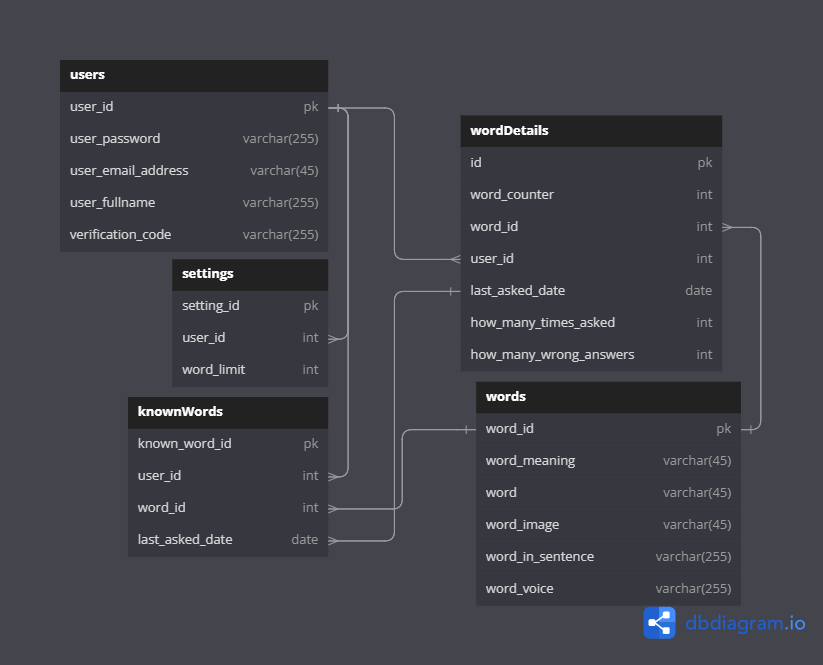
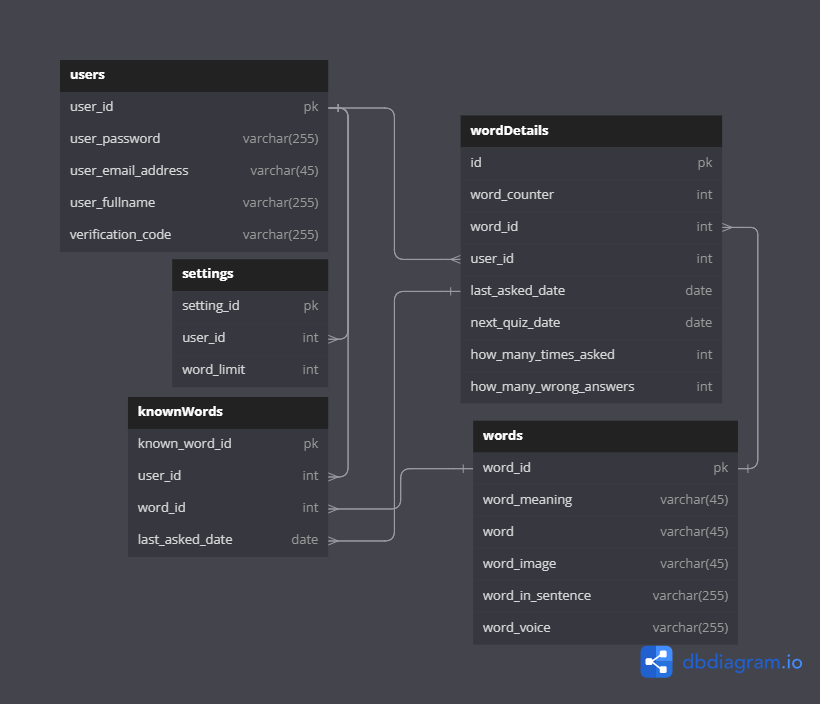
hotFix
analiz kısmı tamamlandı. sorunlar çözüldü. veri tabanı yeniden yapılandırıldı.

diff --git a/api/wordApi.js b/api/wordApi.js
@@ -43,15 +43,15 @@ app.get("/questions/:userId", async (req, res) => {
         const wordLimit =
           settingsResult.length > 0 ? settingsResult[0].word_limit : 10;
 
-        // Rastgele bir kelime seç
+        // Kullanıcının tekrarlanması gereken kelimelerini getir
         const query = `
-        SELECT w.*, wd.word_counter, wd.user_id
-        FROM words AS w
-        INNER JOIN worddetails AS wd ON w.word_id = wd.word_id
-        WHERE wd.user_id = ? AND wd.word_counter < 6
-        ORDER BY RAND()
-        LIMIT ?;
-      `;
+          SELECT w.*, wd.word_counter, wd.user_id, wd.next_quiz_date
+          FROM words AS w
+          INNER JOIN wordDetails AS wd ON w.word_id = wd.word_id
+          WHERE wd.user_id = ? AND wd.word_counter < 6 AND wd.next_quiz_date <= CURDATE()
+          ORDER BY RAND()
+          LIMIT ?;
+        `;
         db.query(query, [userId, wordLimit], (error, results) => {
           if (error) {
             console.error("Error fetching questions:", error);
@@ -90,35 +90,122 @@ app.post("/answer", async (req, res) => {
 
       const correctAnswer = results[0].word_meaning;
 
-      const today = new Date().toISOString().split('T')[0]; // YYYY-MM-DD format
-      let updateQuery;
       // Kullanıcının cevabı ile doğru cevabı karşılaştır
       if (answer === correctAnswer) {
-        // Doğru cevaplanmış ise word_counter ve how_many_times_asked değerlerini arttır ve last_asked_date güncelle
-        updateQuery = `
+        // Doğru cevaplanmış ise word_counter, how_many_times_asked değerlerini arttır ve last_asked_date güncelle
+        const today = new Date();
+
+        let nextQuizDate;
+        const getNextQuizDate = (level) => {
+          switch (level) {
+            case 0:
+              return new Date(today.setDate(today.getDate() + 1));
+            case 1:
+              return new Date(today.setDate(today.getDate() + 7));
+            case 2:
+              return new Date(today.setMonth(today.getMonth() + 1));
+            case 3:
+              return new Date(today.setMonth(today.getMonth() + 3));
+            case 4:
+              return new Date(today.setMonth(today.getMonth() + 6));
+            case 5:
+              return new Date(today.setFullYear(today.getFullYear() + 1));
+            default:
+              return today;
+          }
+        };
+
+        const updateQuery = `
           UPDATE wordDetails 
           SET 
             word_counter = word_counter + 1, 
-            how_many_times_asked = how_many_times_asked + 1, 
-            last_asked_date = ?
+            how_many_times_asked = how_many_times_asked + 1,
+            how_many_correct_answers = how_many_correct_answers + 1, 
+            last_asked_date = ?,
+            next_quiz_date = ?
           WHERE user_id = ? AND word_id = ?
         `;
-        db.query(updateQuery, [today, userId, wordId], (error, updateResult) => {
-          if (error) {
-            console.error("Error updating word details:", error);
-            res.status(500).json({ message: "Internal Server Error" });
-            return;
+
+        db.query(
+          `SELECT word_counter FROM wordDetails WHERE user_id = ? AND word_id = ?`,
+          [userId, wordId],
+          (err, result) => {
+            if (err) {
+              console.error("Error fetching word counter:", err);
+              res.status(500).json({ message: "Internal Server Error" });
+              return;
+            }
+
+            const currentLevel = result[0].word_counter;
+            nextQuizDate = getNextQuizDate(currentLevel);
+
+            db.query(
+              updateQuery,
+              [
+                today.toISOString().split("T")[0],
+                nextQuizDate.toISOString().split("T")[0],
+                userId,
+                wordId,
+              ],
+              (error, updateResult) => {
+                if (error) {
+                  console.error("Error updating word details:", error);
+                  res.status(500).json({ message: "Internal Server Error" });
+                  return;
+                }
+                console.log("Correct answer!");
+                res.json({ message: "Correct answer!" });
+              }
+            );
+            // MySQL sorgusu: word_counter kontrolü
+            db.query(
+              `SELECT word_counter FROM wordDetails WHERE user_id = ? AND word_id = ?`,
+              [userId, wordId],
+              (err, result) => {
+                if (err) {
+                  console.error("Error fetching word counter:", err);
+                  res.status(500).json({ message: "Internal Server Error" });
+                  return;
+                }
+
+                const wordCounter = result[0].word_counter;
+
+                if (wordCounter > 6) {
+                  // word_counter > 6 ise kelimeyi knownwords tablosuna ekle
+                  const insertQuery = `
+            INSERT INTO knownwords (user_id, word_id, last_asked_date)
+            VALUES (?, ?, ?)
+          `;
+                  db.query(
+                    insertQuery,
+                    [userId, wordId, new Date().toISOString().split("T")[0]],
+                    (error, insertResult) => {
+                      if (error) {
+                        console.error(
+                          "Error inserting word into knownwords:",
+                          error
+                        );
+                        res
+                          .status(500)
+                          .json({ message: "Internal Server Error" });
+                        return;
+                      }
+                      console.log("Word added to knownwords table");
+                    }
+                  );
+                }
+              }
+            );
           }
-          console.log("Correct answer!");
-          res.json({ message: "Correct answer!" });
-        });
+        );
       } else {
         // Yanlış cevaplanmış ise word_counter değerini sıfırla ve how_many_wrong_answers değerini arttır
-        updateQuery = `
+        const updateQuery = `
           UPDATE wordDetails 
           SET 
             word_counter = 0, 
-            how_many_wrong_answers = how_many_wrong_answers + 1
+            how_many_wrong_answers = how_many_wrong_answers + 1,
+            how_many_times_asked = how_many_times_asked + 1
           WHERE user_id = ? AND word_id = ?
         `;
         db.query(updateQuery, [userId, wordId], (error, updateResult) => {
@@ -155,12 +242,12 @@ function addDefaultSettings(userId) {
         );
         return;
       }
-
       db.query("SELECT COUNT(*) AS total FROM words", (err, result) => {
         if (err) {
           console.error("Kelime sayısı alınırken bir hata oluştu:", err);
           return;
         }
+        const today = new Date().toISOString().split("T")[0];
 
         const totalWords = result[0].total;
 
@@ -170,6 +257,10 @@ function addDefaultSettings(userId) {
             word_counter: 0,
             user_id: userId,
             word_id: i,
+            next_quiz_date : today,
+            how_many_times_asked: 0,
+            how_many_wrong_answers: 0,
+            how_many_correct_answers: 0
           };
           db.query(
             "INSERT INTO worddetails SET ?",
@@ -203,11 +294,7 @@ app.get("/settings/:userId", (req, res) => {
           // Eğer kullanıcıya ait ayarlar bulunamazsa varsayılan ayarları ekleyin
           addDefaultSettings(userId);
           // Varsayılan ayarları gönderin
-          res.status(200).json({
-            word_counter: 0,
-            word_limit: 10,
-            next_ask_date: "2024-05-01", // next_ask_date değeri 1 Mayıs 2024 olarak ayarlandı
-          });
+          res.status(200).json({ message : "Varsayılan ayarlar başarıyla eklendi."});
         } else {
           // Kullanıcının ayarlarını gönderin
           res.status(200).json(result[0]);

diff --git a/api/userAnalyzes.js b/api/userAnalyzes.js
@@ -24,7 +24,7 @@ app.use(express.urlencoded({ extended: true }));
 
 // Ayarları kaydetme
 app.post("/save-settings", (req, res) => {
-  const { wordLimit, wordDate, userId } = req.body;
+  const { wordLimit, userId } = req.body;
 
   const query = "SELECT * FROM settings WHERE user_id = ?";
   db.query(query, [userId], (err, result) => {
@@ -36,8 +36,8 @@ app.post("/save-settings", (req, res) => {
     if (result.length > 0) {
       // Kullanıcıya ait ayarlar zaten var, güncelleme yap
       const updateQuery =
-        "UPDATE settings SET word_limit = ?, next_ask_date = ? WHERE user_id = ?";
-      db.query(updateQuery, [wordLimit, wordDate, userId], (err, result) => {
+        "UPDATE settings SET word_limit = ? WHERE user_id = ?";
+      db.query(updateQuery, [wordLimit, userId], (err, result) => {
         if (err) {
           console.error("Ayarlar güncellenirken bir hata oluştu:", err);
           return res
@@ -49,8 +49,8 @@ app.post("/save-settings", (req, res) => {
     } else {
       // Kullanıcıya ait ayarlar yok, ekle
       const insertQuery =
-        "INSERT INTO settings (user_id, word_limit, next_ask_date) VALUES (?, ?, ?)";
-      db.query(insertQuery, [userId, wordLimit, wordDate], (err, result) => {
+        "INSERT INTO settings (user_id, word_limit) VALUES (?, ?)";
+      db.query(insertQuery, [userId, wordLimit], (err, result) => {
         if (err) {
           console.error("Ayarlar eklenirken bir hata oluştu:", err);
           return res.status(500).send("Ayarlar eklenirken bir hata oluştu.");
@@ -60,6 +60,45 @@ app.post("/save-settings", (req, res) => {
     }
   });
 });
+
+app.get('/get-analysis', (req, res) => {
+  const userId = req.query.user_id;
+
+  if (!userId) {
+    return res.status(400).json({ message: "user_id is required" });
+  }
+
+  const query = `
+    SELECT 
+      w.word,
+      wd.word_counter, wd.how_many_times_asked, wd.how_many_wrong_answers, wd.how_many_correct_answers
+    FROM words AS w
+    JOIN wordDetails AS wd ON w.word_id = wd.word_id
+    WHERE wd.user_id = ?
+  `;
+
+  db.query(query, [userId], (error, results) => {
+    if (error) {
+      console.error("Error fetching analysis:", error);
+      return res.status(500).json({ message: "Internal Server Error" });
+    }
+    const totalAsked = results.reduce((acc, word) => acc + word.how_many_times_asked, 0);
+    const totalWords = results.length;
+    const wrongAnswers = results.reduce((acc, word) => acc + word.how_many_wrong_answers, 0);
+    const correctAnswers = results.reduce((acc, word) => acc + word.how_many_correct_answers, 0);
+    const successPercentage = totalAsked ? ((correctAnswers / (correctAnswers + wrongAnswers)) * 100).toFixed(2) : 0;
+
+    res.json({
+      totalWords,
+      successPercentage,
+      words: results,
+      totalWrong : wrongAnswers,
+      totalCorrect : correctAnswers,
+      totalAsked : totalAsked,
+    });
+  });
+});
+
 
 app.listen(port, () => {
   console.log(`Sunucu ${port} portunda çalışıyor...`);

diff --git a/website/script/userSettings.js b/website/script/userSettings.js
@@ -8,34 +8,9 @@ document
     event.preventDefault();
 
     const wordLimitSetting = document.getElementById("wordLimitSetting").value;
-    const wordDateSetting = document.getElementById("wordDateSetting").value;
-
-    const today = new Date();
-    let targetDate;
-    switch (wordDateSetting) {
-      case "1day":
-        targetDate = new Date(today.setDate(today.getDate() + 1));
-        break;
-      case "7days":
-        targetDate = new Date(today.setDate(today.getDate() + 7));
-        break;
-      case "1month":
-        targetDate = new Date(today.setMonth(today.getMonth() + 1));
-        break;
-      case "3months":
-        targetDate = new Date(today.setMonth(today.getMonth() + 3));
-        break;
-      case "6months":
-        targetDate = new Date(today.setMonth(today.getMonth() + 6));
-        break;
-      case "1year":
-        targetDate = new Date(today.setFullYear(today.getFullYear() + 1));
-        break;
-    }
 
     const settingsData = {
       wordLimit: wordLimitSetting,
-      wordDate: targetDate.toISOString().split("T")[0],
       userId: userId,
     };
 
@@ -59,21 +34,34 @@ document
     }
   });
 
-// Analiz raporu oluşturma işlevi
-async function fetchAnalysisReport() {
-  try {
-    const response = await fetch(apiUrl + "/get-analysis");
-    const data = await response.json();
-
-    const analysisReportDiv = document.getElementById("analysisReport");
-    analysisReportDiv.innerHTML = `
-            <p>Toplam Kelime Sayısı: ${data.totalWords}</p>
-            <p>Başarı Yüzdesi: ${data.successPercentage}%</p>
-        `;
-  } catch (error) {
-    console.error("Analiz raporu alınırken bir hata oluştu:", error);
+  async function fetchAnalysisReport() {
+    try {
+      const response = await fetch(apiUrl + "/get-analysis?user_id=" + userId);
+      const data = await response.json();
+  
+      const analysisReportDiv = document.getElementById("analysisReport");
+      analysisReportDiv.innerHTML = `
+        <p>Toplam Kelime Sayısı: ${data.totalWords}</p>
+        <p>Başarı Yüzdesi: ${data.successPercentage}%</p>
+        <p>Yanlış Sayısı: ${data.totalWrong}</p>
+        <p>Doğru Sayısı: ${data.totalCorrect}</p>
+        <p>Toplam Sayı: ${data.totalAsked}</p>
+        <h3>Detaylı Rapor:</h3>
+        <ul>
+          ${data.words.map(word => `
+            <li>
+              <strong>Kelime:</strong> ${word.word} <br>
+              <strong>Seviye:</strong> ${word.word_counter}<br>
+              <strong>Doğru Sayısı:</strong> ${word.how_many_correct_answers}<br>
+              <strong>Yanlış Sayısı:</strong> ${word.how_many_wrong_answers}
+            </li>
+          `).join('')}
+        </ul>
+      `;
+    } catch (error) {
+      console.error("Analiz raporu alınırken bir hata oluştu:", error);
+    }
   }
-}
-
+  
 // Sayfa yüklendiğinde analiz raporunu al
 window.onload = fetchAnalysisReport;

diff --git a/website/userSettings.html b/website/userSettings.html
@@ -27,16 +27,6 @@
         <option value="20">20</option>
       </select>
 
-      <label for="wordDateSetting">Zaman Aralığı Seçiniz</label>
-      <select name="wordDateSetting" id="wordDateSetting">
-        <option value="1day">1 gün sonra</option>
-        <option value="7days">1 hafta sonra</option>
-        <option value="1month">1 ay sonra</option>
-        <option value="3months">3 ay sonra</option>
-        <option value="6months">6 ay sonra</option>
-        <option value="1year">1 yıl sonra</option>
-      </select>
-
       <input type="submit" value="Uygula" />
     </form>
 

diff --git a/website/quiz.html b/website/quiz.html
@@ -23,13 +23,13 @@
           <div class="word">
             <p>
               English:
-              <span id="questionWord">Apple</span>
+              <span id="questionWord"></span>
             </p>
           </div>
           <div class="wordSentence">
             <p>
               English Sentence:
-              <span id="questionSentence">I eat Apple.</span>
+              <span id="questionSentence"></span>
             </p>
           </div>
         </div>
